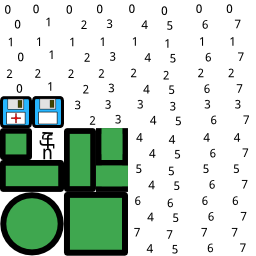
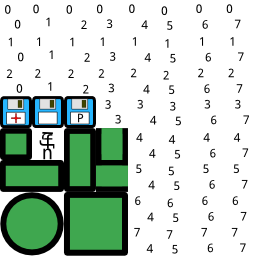
Add pogo stick pickup

Changed region(s): [[0.25, 0.375, 0.375, 0.5]]

diff --git a/src/objects/player.ts b/src/objects/player.ts
@@ -5,7 +5,7 @@ import { SoundChannel } from './soundChannel';
 export class Player extends Phaser.Sprite {
 
     MOVEMENT_SPEED = 140;
-    JUMP_SPEED = 400;
+    jumpSpeed = 400;
 
     jumpDetector: p2.Rectangle;
     floorShape: any;
@@ -59,7 +59,7 @@ export class Player extends Phaser.Sprite {
       this.body.velocity.x = dx/(Math.abs(dx) || 1) * Math.min(this.MOVEMENT_SPEED, Math.abs(dx)); // clamp
 
       if (this.canJump && !this.downKeyHeld && this.game.input.keyboard.isDown(Phaser.Keyboard.UP)) {
-          this.body.velocity.y = -this.JUMP_SPEED;
+          this.body.velocity.y = -this.jumpSpeed;
           this.canJump = false;
           this.downKeyHeld = true;
           this.soundChannel.play('jump');

diff --git a/src/states/level.ts b/src/states/level.ts
@@ -2,6 +2,7 @@ import { Player } from '../objects/player';
 import { Pickup } from '../objects/pickup';
 import '../objects/health';
 import '../objects/hardware';
+import '../objects/pogo';
 import { CollisionGroups } from '../objects/collisionGroups';
 import { Constants } from '../constants';
 import { MyGame } from '../index';

diff --git a/src/objects/pogo.ts b/src/objects/pogo.ts
@@ -1,0 +1,12 @@
+import { Pickup, traits, Traits, PickupOptions } from './pickup';
+import { Player } from './player';
+
+
+const pogo: Traits = {
+    onConsumed(pickup: Pickup, consumer: Player): void {
+        consumer.jumpSpeed += 100;
+    },
+};
+
+
+traits['pogo'] = (): Traits => pogo;
